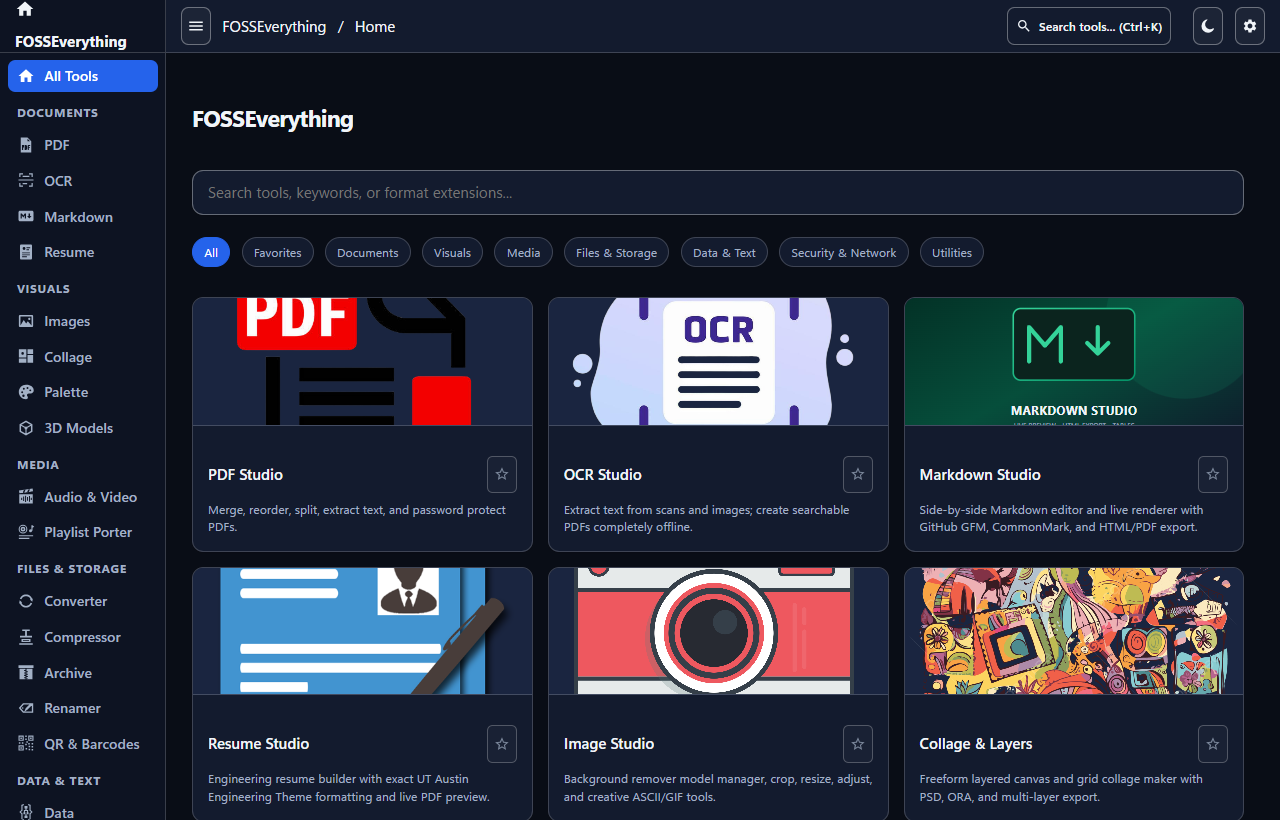
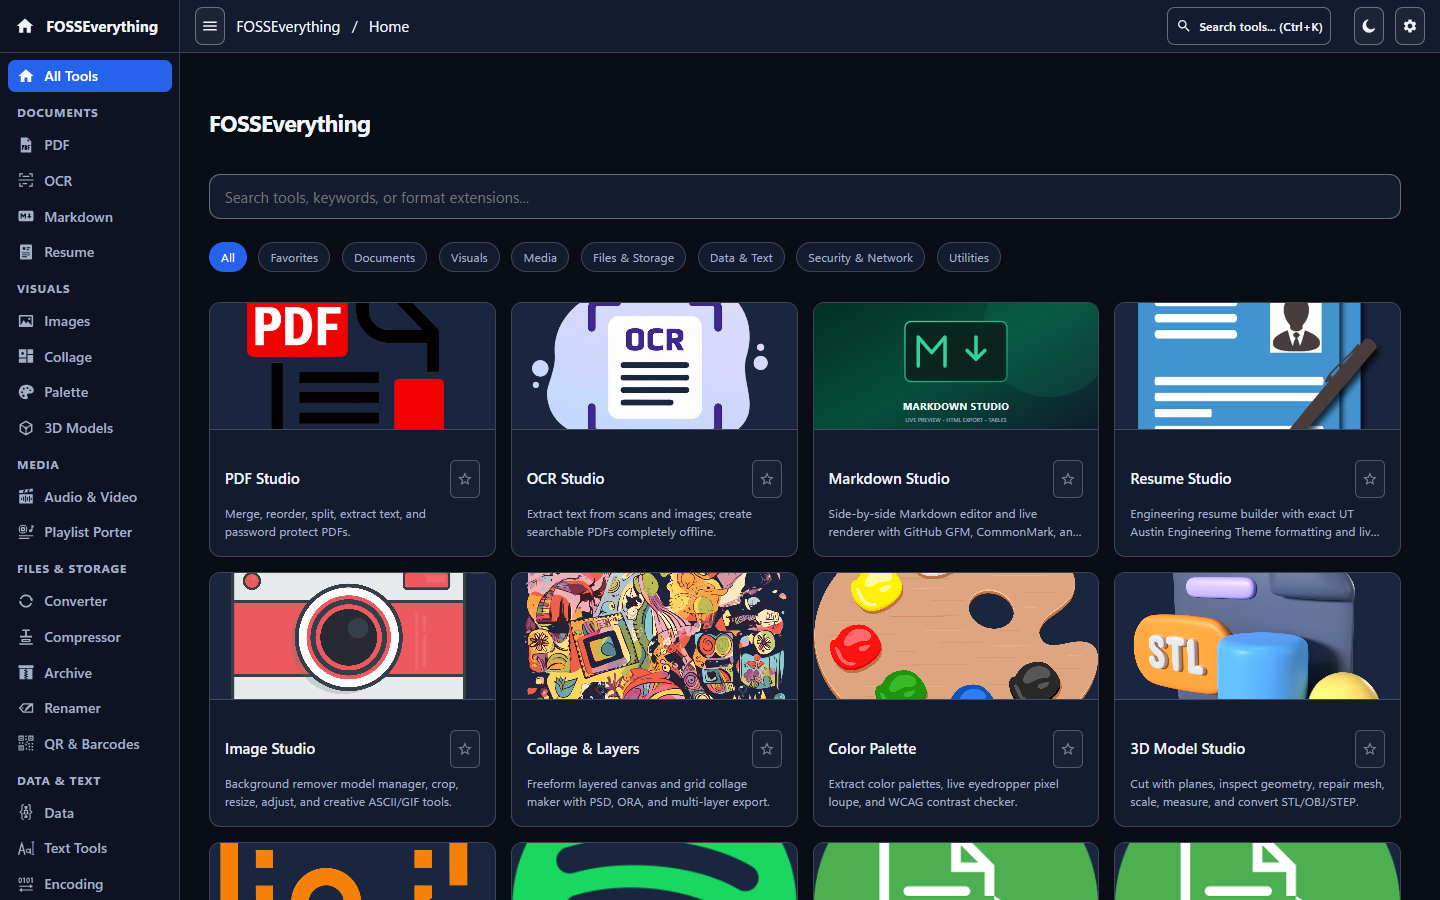
chore: add headless --screenshot support, refresh screenshots, and CI sync

diff --git a/scripts/capture_screenshots.py b/scripts/capture_screenshots.py
@@ -1,90 +1,108 @@
 """Automated screenshot capture script for FOSSEverything showcase."""
+
+from __future__ import annotations
+
+import argparse
+from functools import partial
+from http.server import SimpleHTTPRequestHandler, ThreadingHTTPServer
 import json
-import os
+from pathlib import Path
+import sys
+import threading
 import time
+from typing import Any
+
 from playwright.sync_api import sync_playwright
 
 from app.web.api import WebApi
 
-ROOT_DIR = os.path.dirname(os.path.dirname(os.path.abspath(__file__)))
-SCREENSHOTS_DIR = os.path.join(ROOT_DIR, "assets", "screenshots")
-os.makedirs(SCREENSHOTS_DIR, exist_ok=True)
-
-api = WebApi()
+ROOT_DIR = Path(__file__).resolve().parent.parent
 
 
-def capture_all() -> None:
-    # Capture application feature screenshots.
-    with sync_playwright() as p:
-        browser = p.chromium.launch(channel="msedge", headless=True)
-        page = browser.new_page(viewport={"width": 1280, "height": 820}, device_scale_factor=1)
+class QuietStaticHandler(SimpleHTTPRequestHandler):
+    """Static handler that keeps automated screenshot output quiet."""
 
-        def py_call_handler(name: str, args_json: str) -> str:
-            try:
-                args = json.loads(args_json)
-                method = getattr(api, name)
-                res = method(*args)
-                return json.dumps(res, default=str)
-            except Exception as exc:
-                return json.dumps({"ok": False, "error": str(exc)})
+    def log_message(self, format: str, *args: Any) -> None:
+        return
 
-        page.expose_function("__py_call", py_call_handler)
-        bridge_script = """
-        window.pywebview = {
-            api: new Proxy({}, {
-                get: (t, name) => (...args) => window.__py_call(String(name), JSON.stringify(args)).then(JSON.parse)
-            })
-        };
-        """
-        page.add_init_script(bridge_script)
 
-        html_path = "file:///" + os.path.join(ROOT_DIR, "app", "web", "index.html").replace("\\", "/")
-        page.goto(html_path)
-        page.wait_for_selector(".app")
-        time.sleep(1.0)
+def _launch_browser(pw: Any) -> Any:
+    try:
+        return pw.chromium.launch(headless=True)
+    except Exception:  # noqa: 10
+        return pw.chromium.launch(channel="msedge", headless=True)
 
-        # 1. Home Hub
-        page.screenshot(path=os.path.join(SCREENSHOTS_DIR, "01_home_hub.png"))
-        print("Captured 01_home_hub.png")
 
-        # 2. PDF Studio
-        page.evaluate("window.FOSS.router.open('pdf', 'merge')")
-        time.sleep(0.8)
-        page.screenshot(path=os.path.join(SCREENSHOTS_DIR, "02_pdf_studio.png"))
-        print("Captured 02_pdf_studio.png")
+def capture_all(out_dir: Path) -> None:
+    """Capture application feature screenshots into out_dir."""
+    out_resolved = out_dir.expanduser().resolve()
+    out_resolved.mkdir(parents=True, exist_ok=True)
+    api = WebApi()
 
-        # 3. 3D Model Viewer
-        page.evaluate("window.FOSS.router.open('model3d')")
-        time.sleep(0.8)
-        page.screenshot(path=os.path.join(SCREENSHOTS_DIR, "03_3d_viewer.png"))
-        print("Captured 03_3d_viewer.png")
+    web_root = ROOT_DIR / "app" / "web"
+    handler = partial(QuietStaticHandler, directory=str(web_root))
+    server = ThreadingHTTPServer(("127.0.0.1", 0), handler)
+    port = int(server.server_address[1])
+    thread = threading.Thread(target=server.serve_forever, daemon=True)
+    thread.start()
 
-        # 4. Network Monitor
-        page.evaluate("window.FOSS.router.open('network_monitor')")
-        time.sleep(0.8)
-        page.screenshot(path=os.path.join(SCREENSHOTS_DIR, "04_network_monitor.png"))
-        print("Captured 04_network_monitor.png")
+    try:
+        with sync_playwright() as pw:
+            browser = _launch_browser(pw)
+            page = browser.new_page(viewport={"width": 1440, "height": 900}, device_scale_factor=1)
 
-        # 5. Data Studio
-        page.evaluate("window.FOSS.router.open('data')")
-        time.sleep(0.8)
-        page.screenshot(path=os.path.join(SCREENSHOTS_DIR, "05_data_studio.png"))
-        print("Captured 05_data_studio.png")
+            def py_call_handler(name: str, args_json: str) -> str:
+                try:
+                    args = json.loads(args_json)
+                    method = getattr(api, name)
+                    res = method(*args)
+                    return json.dumps(res, default=str)
+                except Exception as exc:
+                    return json.dumps({"ok": False, "error": str(exc)})
 
-        # 6. Converter & Compressor
-        page.evaluate("window.FOSS.router.open('converter')")
-        time.sleep(0.8)
-        page.screenshot(path=os.path.join(SCREENSHOTS_DIR, "06_converter.png"))
-        print("Captured 06_converter.png")
+            page.expose_function("__py_call", py_call_handler)
+            bridge_script = """
+            window.pywebview = {
+                api: new Proxy({}, {
+                    get: (t, name) => (...args) => window.__py_call(String(name), JSON.stringify(args)).then(JSON.parse)
+                })
+            };
+            """
+            page.add_init_script(bridge_script)
+            page.goto(f"http://127.0.0.1:{port}/index.html", wait_until="networkidle")
+            page.wait_for_selector(".app")
+            time.sleep(1.0)
 
-        # 7. Command Palette Search
-        page.evaluate("window.FOSS.router.open('home'); window.FOSS.palette.open()")
-        time.sleep(0.8)
-        page.screenshot(path=os.path.join(SCREENSHOTS_DIR, "07_command_palette.png"))
-        print("Captured 07_command_palette.png")
+            views = [
+                ("01_home_hub.png", None),
+                ("02_pdf_studio.png", "window.FOSS.router.open('pdf', 'merge')"),
+                ("03_3d_viewer.png", "window.FOSS.router.open('model3d')"),
+                ("04_network_monitor.png", "window.FOSS.router.open('network_monitor')"),
+                ("05_data_studio.png", "window.FOSS.router.open('data')"),
+                ("06_converter.png", "window.FOSS.router.open('converter')"),
+                ("07_command_palette.png", "window.FOSS.router.open('home'); window.FOSS.palette.open()"),
+            ]
+            for filename, js_expr in views:
+                if js_expr:
+                    page.evaluate(js_expr)
+                    time.sleep(0.8)
+                target = out_resolved / filename
+                page.screenshot(path=str(target), full_page=False)
+                sys.stdout.write(f"Captured {filename}\n")
 
-        browser.close()
+            browser.close()
+    finally:
+        server.shutdown()
+        server.server_close()
+
+
+def main() -> int:
+    parser = argparse.ArgumentParser(description="Capture FOSSEverything desktop screenshots.")
+    parser.add_argument("--out-dir", type=Path, default=ROOT_DIR / "assets" / "screenshots")
+    args = parser.parse_args()
+    capture_all(args.out_dir)
+    return 0
 
 
 if __name__ == "__main__":
-    capture_all()
+    raise SystemExit(main())

diff --git a/main.py b/main.py
@@ -1,10 +1,14 @@
 import ctypes
+from functools import partial
+from http.server import SimpleHTTPRequestHandler, ThreadingHTTPServer
 import json
 import os
+from pathlib import Path
+import shutil
+import subprocess
 import sys
 import threading
 import time
-from pathlib import Path
 from typing import Any
 
 if sys.platform == "win32":
@@ -90,8 +94,94 @@ def run_selftest(window: webview.Window) -> None:
         os._exit(0)
 
 
+class _QuietWebHandler(SimpleHTTPRequestHandler):
+    """Static handler that keeps headless HTTP serving quiet."""
+
+    def log_message(self, format: str, *args: Any) -> None:
+        return
+
+
+def _find_headless_browser() -> str | None:
+    if sys.platform == "win32":
+        roots = [
+            os.environ.get("PROGRAMFILES", ""),
+            os.environ.get("PROGRAMFILES(X86)", ""),
+            os.environ.get("LOCALAPPDATA", ""),
+        ]
+        rel_parts = (("Microsoft", "Edge", "Application", "msedge.exe"), ("Google", "Chrome", "Application", "chrome.exe"))
+        for root in roots:
+            if not root:
+                continue
+            for parts in rel_parts:
+                candidate = Path(root).joinpath(*parts)
+                if candidate.is_file():
+                    return str(candidate)
+        return shutil.which("msedge") or shutil.which("chrome")
+    for name in ("google-chrome", "google-chrome-stable", "chromium", "chromium-browser", "microsoft-edge"):
+        found = shutil.which(name)
+        if found:
+            return found
+    mac_paths = (
+        "/Applications/Google Chrome.app/Contents/MacOS/Google Chrome",
+        "/Applications/Microsoft Edge.app/Contents/MacOS/Microsoft Edge",
+        "/Applications/Chromium.app/Contents/MacOS/Chromium",
+    )
+    for mac_path in mac_paths:
+        if Path(mac_path).is_file():
+            return mac_path
+    return None
+
+
+def _parse_screenshot_arg(argv: list[str]) -> str | None:
+    for idx, token in enumerate(argv):
+        if token == "--screenshot" and idx + 1 < len(argv):
+            return argv[idx + 1]
+        if token.startswith("--screenshot="):
+            return token.split("=", 1)[1]
+    return None
+
+
+def _capture_headless_screenshot(raw_out: str) -> int:
+    browser = _find_headless_browser()
+    if not browser:
+        sys.stderr.write("No Chromium or Edge browser found for --screenshot.\n")
+        return 1
+    out_path = Path(raw_out).expanduser().resolve()
+    out_path.parent.mkdir(parents=True, exist_ok=True)
+    web_root = calc_app_base_dir() / "app" / "web"
+    handler = partial(_QuietWebHandler, directory=str(web_root))
+    server = ThreadingHTTPServer(("127.0.0.1", 0), handler)
+    port = int(server.server_address[1])
+    thread = threading.Thread(target=server.serve_forever, daemon=True)
+    thread.start()
+    try:
+        cmd = [
+            browser,
+            "--headless=new",
+            "--disable-gpu",
+            "--no-sandbox",
+            "--disable-dev-shm-usage",
+            "--disable-background-networking",
+            "--no-first-run",
+            "--no-default-browser-check",
+            "--window-size=1440,900",
+            "--virtual-time-budget=4000",
+            f"--screenshot={out_path}",
+            f"http://127.0.0.1:{port}/index.html",
+        ]
+        subprocess.run(cmd, check=True, timeout=45)  # noqa: 32
+        sys.stdout.write(f"Saved screenshot to {out_path}\n")
+        return 0
+    finally:
+        server.shutdown()
+        server.server_close()
+
+
 def main() -> None:
     # Desktop application entry point.
+    shot_arg = _parse_screenshot_arg(sys.argv[1:])
+    if shot_arg:
+        raise SystemExit(_capture_headless_screenshot(shot_arg))
     if "--configure" in sys.argv:
         configured, _message = apply_install_options(sys.argv[1:])
         sys.exit(0 if configured else 1)

diff --git a/docs/INSTALLATION.md b/docs/INSTALLATION.md
@@ -2,15 +2,11 @@
 
 Install and launch `FOSSEverything` on your computer without Python or terminal setup.
 
-## Safety & Authenticity Warning
-
-- **Official `main` Releases Only**: Download `FOSSEverything` exclusively from [DontKwo/FOSSEverything Releases](https://github.com/DontKwo/FOSSEverything/releases/latest).
-- **Fork Warning**: Do **not** download or run executables from forked repositories unless you have verified the source code yourself and confirmed they contain no malware. Only official `main` releases are maintained by the author, and I make no promises.
-- **Bypassing Security Prompts**: Because independent open-source executables do not carry paid commercial signing certificates, Windows and macOS will warn that the app is unrecognized or potentially unsafe. Bypassing these prompts is strictly at your own discretion, and the software is provided "AS IS" with zero liability.
-
 ---
 
-## Windows
+## Platform Instructions
+
+### Windows
 
 1. Download `FOSSEverything-Windows.exe` from [Latest Releases](https://github.com/DontKwo/FOSSEverything/releases/latest).
 2. Double-click `FOSSEverything-Windows.exe` to run the setup wizard (choose install folder, optional right-click menu entries, Start Menu shortcut, theme, and interface size).
@@ -21,7 +17,7 @@ Install and launch `FOSSEverything` on your computer without Python or terminal 
 
 ---
 
-## macOS
+### macOS
 
 1. Download `FOSSEverything-macOS.dmg` from [Latest Releases](https://github.com/DontKwo/FOSSEverything/releases/latest).
 2. Open the DMG and drag **FOSSEverything** into **Applications**.
@@ -33,11 +29,19 @@ Install and launch `FOSSEverything` on your computer without Python or terminal 
 
 ---
 
-## Linux
+### Linux
 
 1. Download `FOSSEverything-Linux.tar.gz` from [Latest Releases](https://github.com/DontKwo/FOSSEverything/releases/latest).
 2. Extract the archive in your file manager (or run `tar -xzf FOSSEverything-Linux.tar.gz`).
 3. Run `./install.sh` (or run `./FOSSEverything` directly from the extracted directory).
+
+---
+
+## Safety & Authenticity Warning
+
+- **Official `main` Releases Only**: Download `FOSSEverything` exclusively from [DontKwo/FOSSEverything Releases](https://github.com/DontKwo/FOSSEverything/releases/latest).
+- **Fork Warning**: Do **not** download or run executables from forked repositories unless you have verified the source code yourself and confirmed they contain no malware. Only official `main` releases are maintained by the author, and I make no promises.
+- **Bypassing Security Prompts**: Because independent open-source executables do not carry paid commercial signing certificates, Windows and macOS will warn that the app is unrecognized or potentially unsafe. Bypassing these prompts is strictly at your own discretion, and the software is provided "AS IS" with zero liability.
 
 ---
 

diff --git a/README.md b/README.md
@@ -48,14 +48,6 @@ FOSSEverything runs completely locally on Windows, macOS, and Linux with zero cl
 
 ---
 
-## Safety & Disclaimers
-
-- **Official `main` Releases Only**: Download installers exclusively from [DontKwo/FOSSEverything Releases](https://github.com/DontKwo/FOSSEverything/releases/latest) (`main` branch). Never run forked builds unless you are sure they contain no malware; only official `main` releases are maintained by the author, and I make no promises.
-- **OS Security Warnings**: Windows SmartScreen and macOS Gatekeeper will likely warn that independently built executables are unrecognized or unsafe. Bypassing prompts is strictly at your own discretion using [Desktop Installation Guide](docs/INSTALLATION.md).
-- **File & System Modifications Disclaimer**: FOSSEverything transforms local files, metadata, and optional OS context-menu entries when requested. Provided "AS IS" under the [MIT License](LICENSE) with zero warranty or liability; keep backups and run batch operations at your own risk.
-
----
-
 ## Documentation
 
 ### User Documentation
@@ -69,10 +61,18 @@ FOSSEverything runs completely locally on Windows, macOS, and Linux with zero cl
 - [Developer uv Installation](docs/UV_INSTALLATION.md)
 - [Contributing Guidelines](CONTRIBUTING.md)
 
-### AI, Technical & Reference Documentation
+### AI & Technical Documentation
 - [AI Agent Reference](AGENTS.md)
 
 ### Legal & Security Policies
 - [Security Policy](SECURITY.md)
 - [Third-Party Notices](THIRD_PARTY_NOTICES.md)
 - [MIT License](LICENSE)
+
+---
+
+## Safety & Disclaimers
+
+- **Official `main` Releases Only**: Download installers exclusively from [DontKwo/FOSSEverything Releases](https://github.com/DontKwo/FOSSEverything/releases/latest) (`main` branch). Never run forked builds unless you are sure they contain no malware; only official `main` releases are maintained by the author, and I make no promises.
+- **OS Security Warnings**: Windows SmartScreen and macOS Gatekeeper will likely warn that independently built executables are unrecognized or unsafe. Bypassing prompts is strictly at your own discretion using [Desktop Installation Guide](docs/INSTALLATION.md).
+- **File & System Modifications Disclaimer**: FOSSEverything transforms local files, metadata, and optional OS context-menu entries when requested. Provided "AS IS" under the [MIT License](LICENSE) with zero warranty or liability; keep backups and run batch operations at your own risk.

diff --git a/docs/UV_INSTALLATION.md b/docs/UV_INSTALLATION.md
@@ -6,7 +6,9 @@ Developers building from source, running `pytest`, or executing the strict repos
 
 ---
 
-## Windows
+## Platform Instructions
+
+### Windows
 
 Install `uv` using PowerShell or winget:
 
@@ -17,7 +19,7 @@ winget install --id=astral-sh.uv -e
 
 ---
 
-## macOS
+### macOS
 
 Install `uv` using the standalone installer or Homebrew:
 
@@ -28,7 +30,7 @@ brew install uv
 
 ---
 
-## Linux
+### Linux
 
 Install `uv` using the standalone installer:
 
